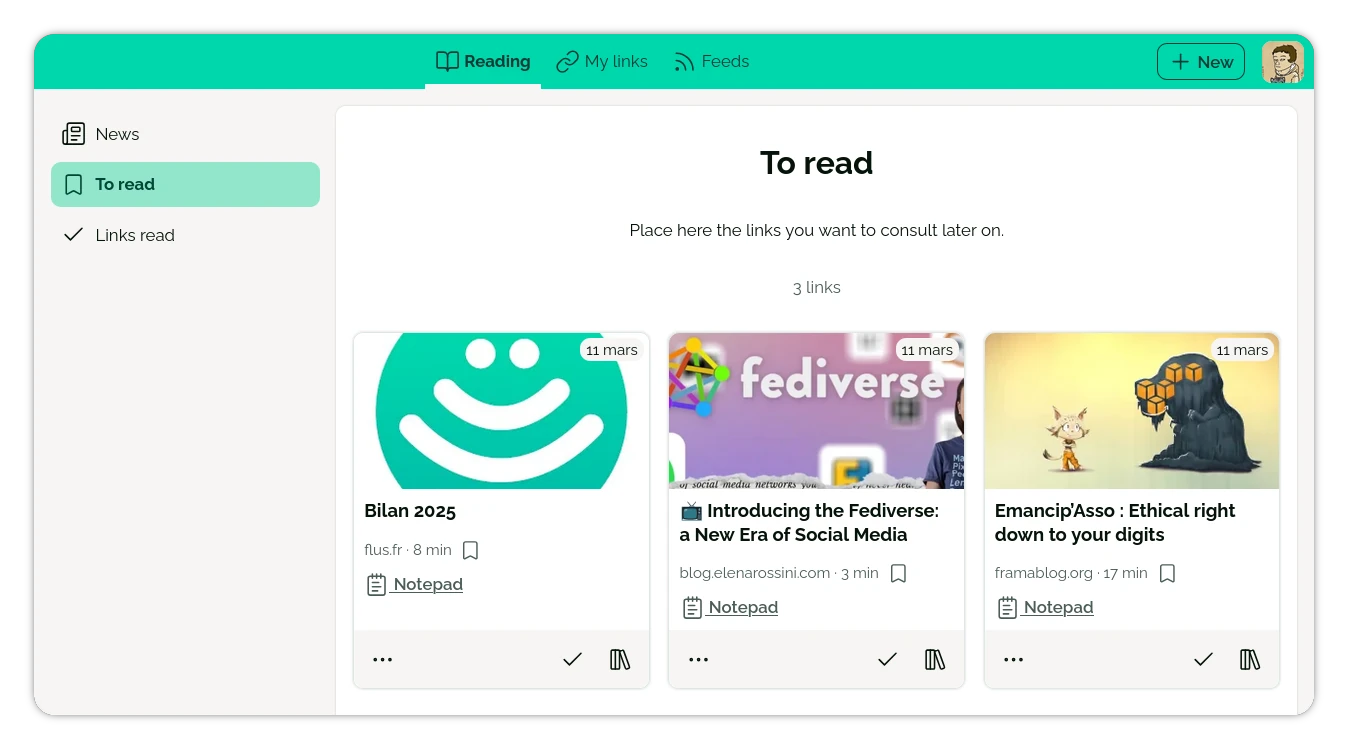
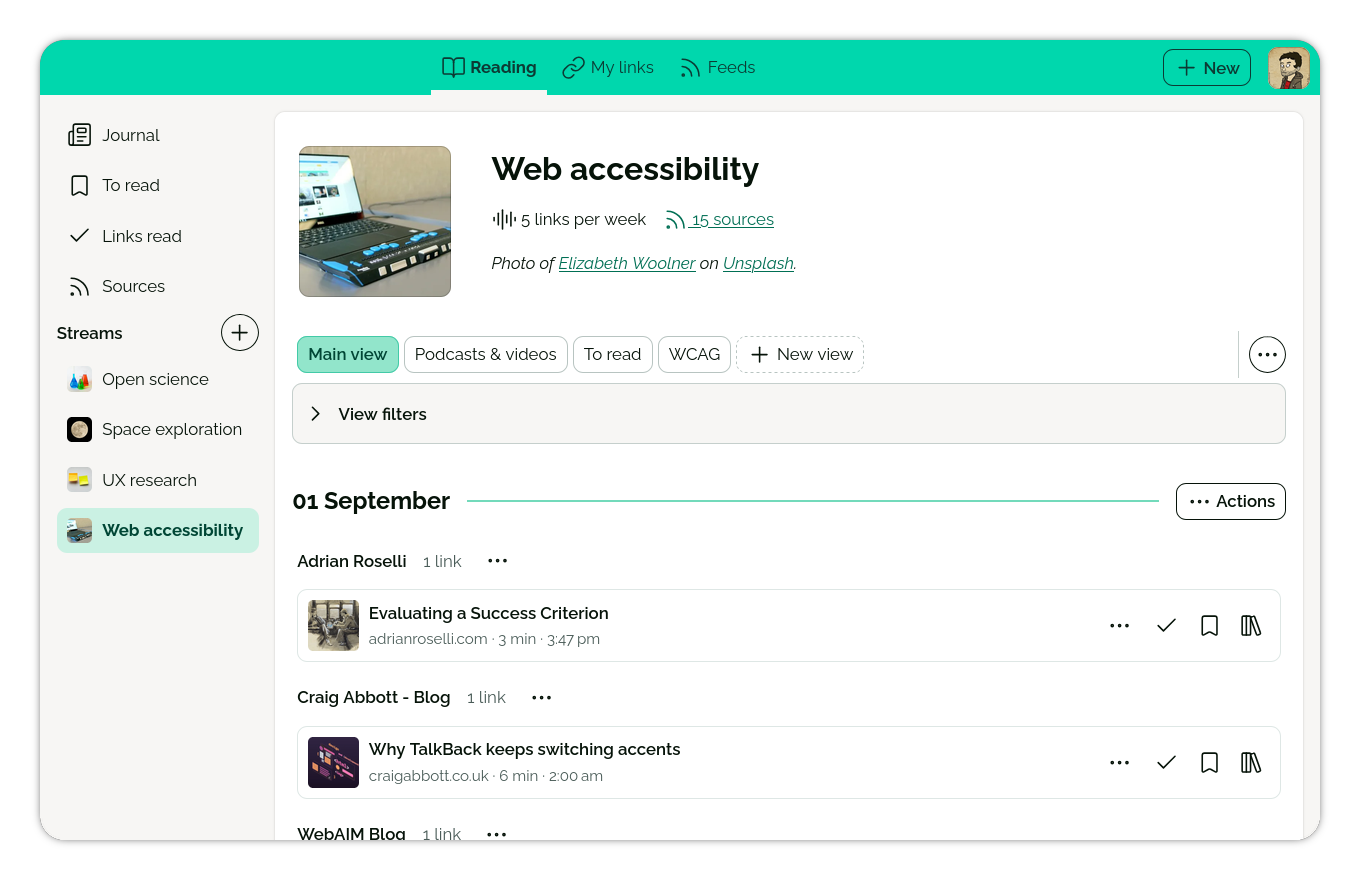
doc: Update README description and screenshots

diff --git a/README.md b/README.md
@@ -1,29 +1,35 @@
 <h1 align="center">Flus</h1>
 
 <p align="center">
-    <strong>Collect, organise, annotate on and share links from around the Web.</strong>
+    <strong>Collect, organise, annotate and share links from around the Web.</strong>
 </p>
 
 ---
 
-Flus brings together news feed aggregation and social bookmarking in a modern way.
-It is designed as a simple, yet complete tool for organising the links you gather around the Web.
-It comes with four main features:
+Flus brings together feed aggregation, read-later lists and social bookmarking so you don’t have to juggle between multiple tools.
+It lets you:
 
-- the **feeds aggregation** (<abbr>RSS</abbr> and Atom) to follow any website, podcast or video channel in one place;
-- the **bookmarks and collections** to save your favourites articles for later and to organise them;
-- the **journal** to keep control over your newsfeed;
-- the **profile** to share links with others.
+- **follow** sources such as blogs, podcasts or video channels (RSS/Atom/JSON feeds) and collections shared on Flus, organised into thematic streams;
+- **read** at your own pace with the “Journal”, which suggests links from the sources you follow, and with the “To read” and “Links read” lists;
+- **keep** your links in collections to easily find them again, and annotate them with your thoughts and tags;
+- **share** your links, collections and streams publicly on your profile so other people can follow you, or privately to collaborate with specific people.
+
+It also comes with many other features:
+
+- search and privacy: a powerful search engine, detection of tracking parameters in URLs…
+- interoperability: sharing via Atom feeds and Mastodon, OPML import, full data export, an API for developers…
+- tools: a web app you can install on your phone, a browser extension for Firefox, Firefox Mobile and Chrome (or a bookmarklet).
 
 You can try Flus for free at [demo.flus.fr](https://demo.flus.fr/).
 
 It’s [free/libre software](https://en.wikipedia.org/wiki/Free_software) (politically speaking) while being supported by a micro-enterprise to ensure its viability.
 The main service is available to French people at [flus.fr](https://flus.fr).
-You can help to fund the development by taking a subscription to the service.
+You can help to fund the development by subscribing to the service.
+You can also host and operate Flus by yourself: [it’s all documented](#administrator-guide).
 
 Flus is licensed under [AGPL 3](/LICENSE.txt).
 
-![Screenshot of the journal page with 3 links](/public/static/screenshot.webp)
+![Screenshot of the “Web accessibility” stream, showing links from several sources grouped by day.](/public/static/screenshot.webp)
 
 ## Credits and dependencies
 
@@ -55,7 +61,7 @@ It’s also based on other projects:
 I sincerely appreciate if you want to contribute.
 Here’s a few things you can do:
 
-- taking a subscription at [flus.fr](https://flus.fr) (French);
+- subscribing to the service at [flus.fr](https://flus.fr) (French);
 - reporting bugs or make feature requests [in issues](https://github.com/flusio/Flus/issues);
 - writing blog posts to speak about the project.
 
